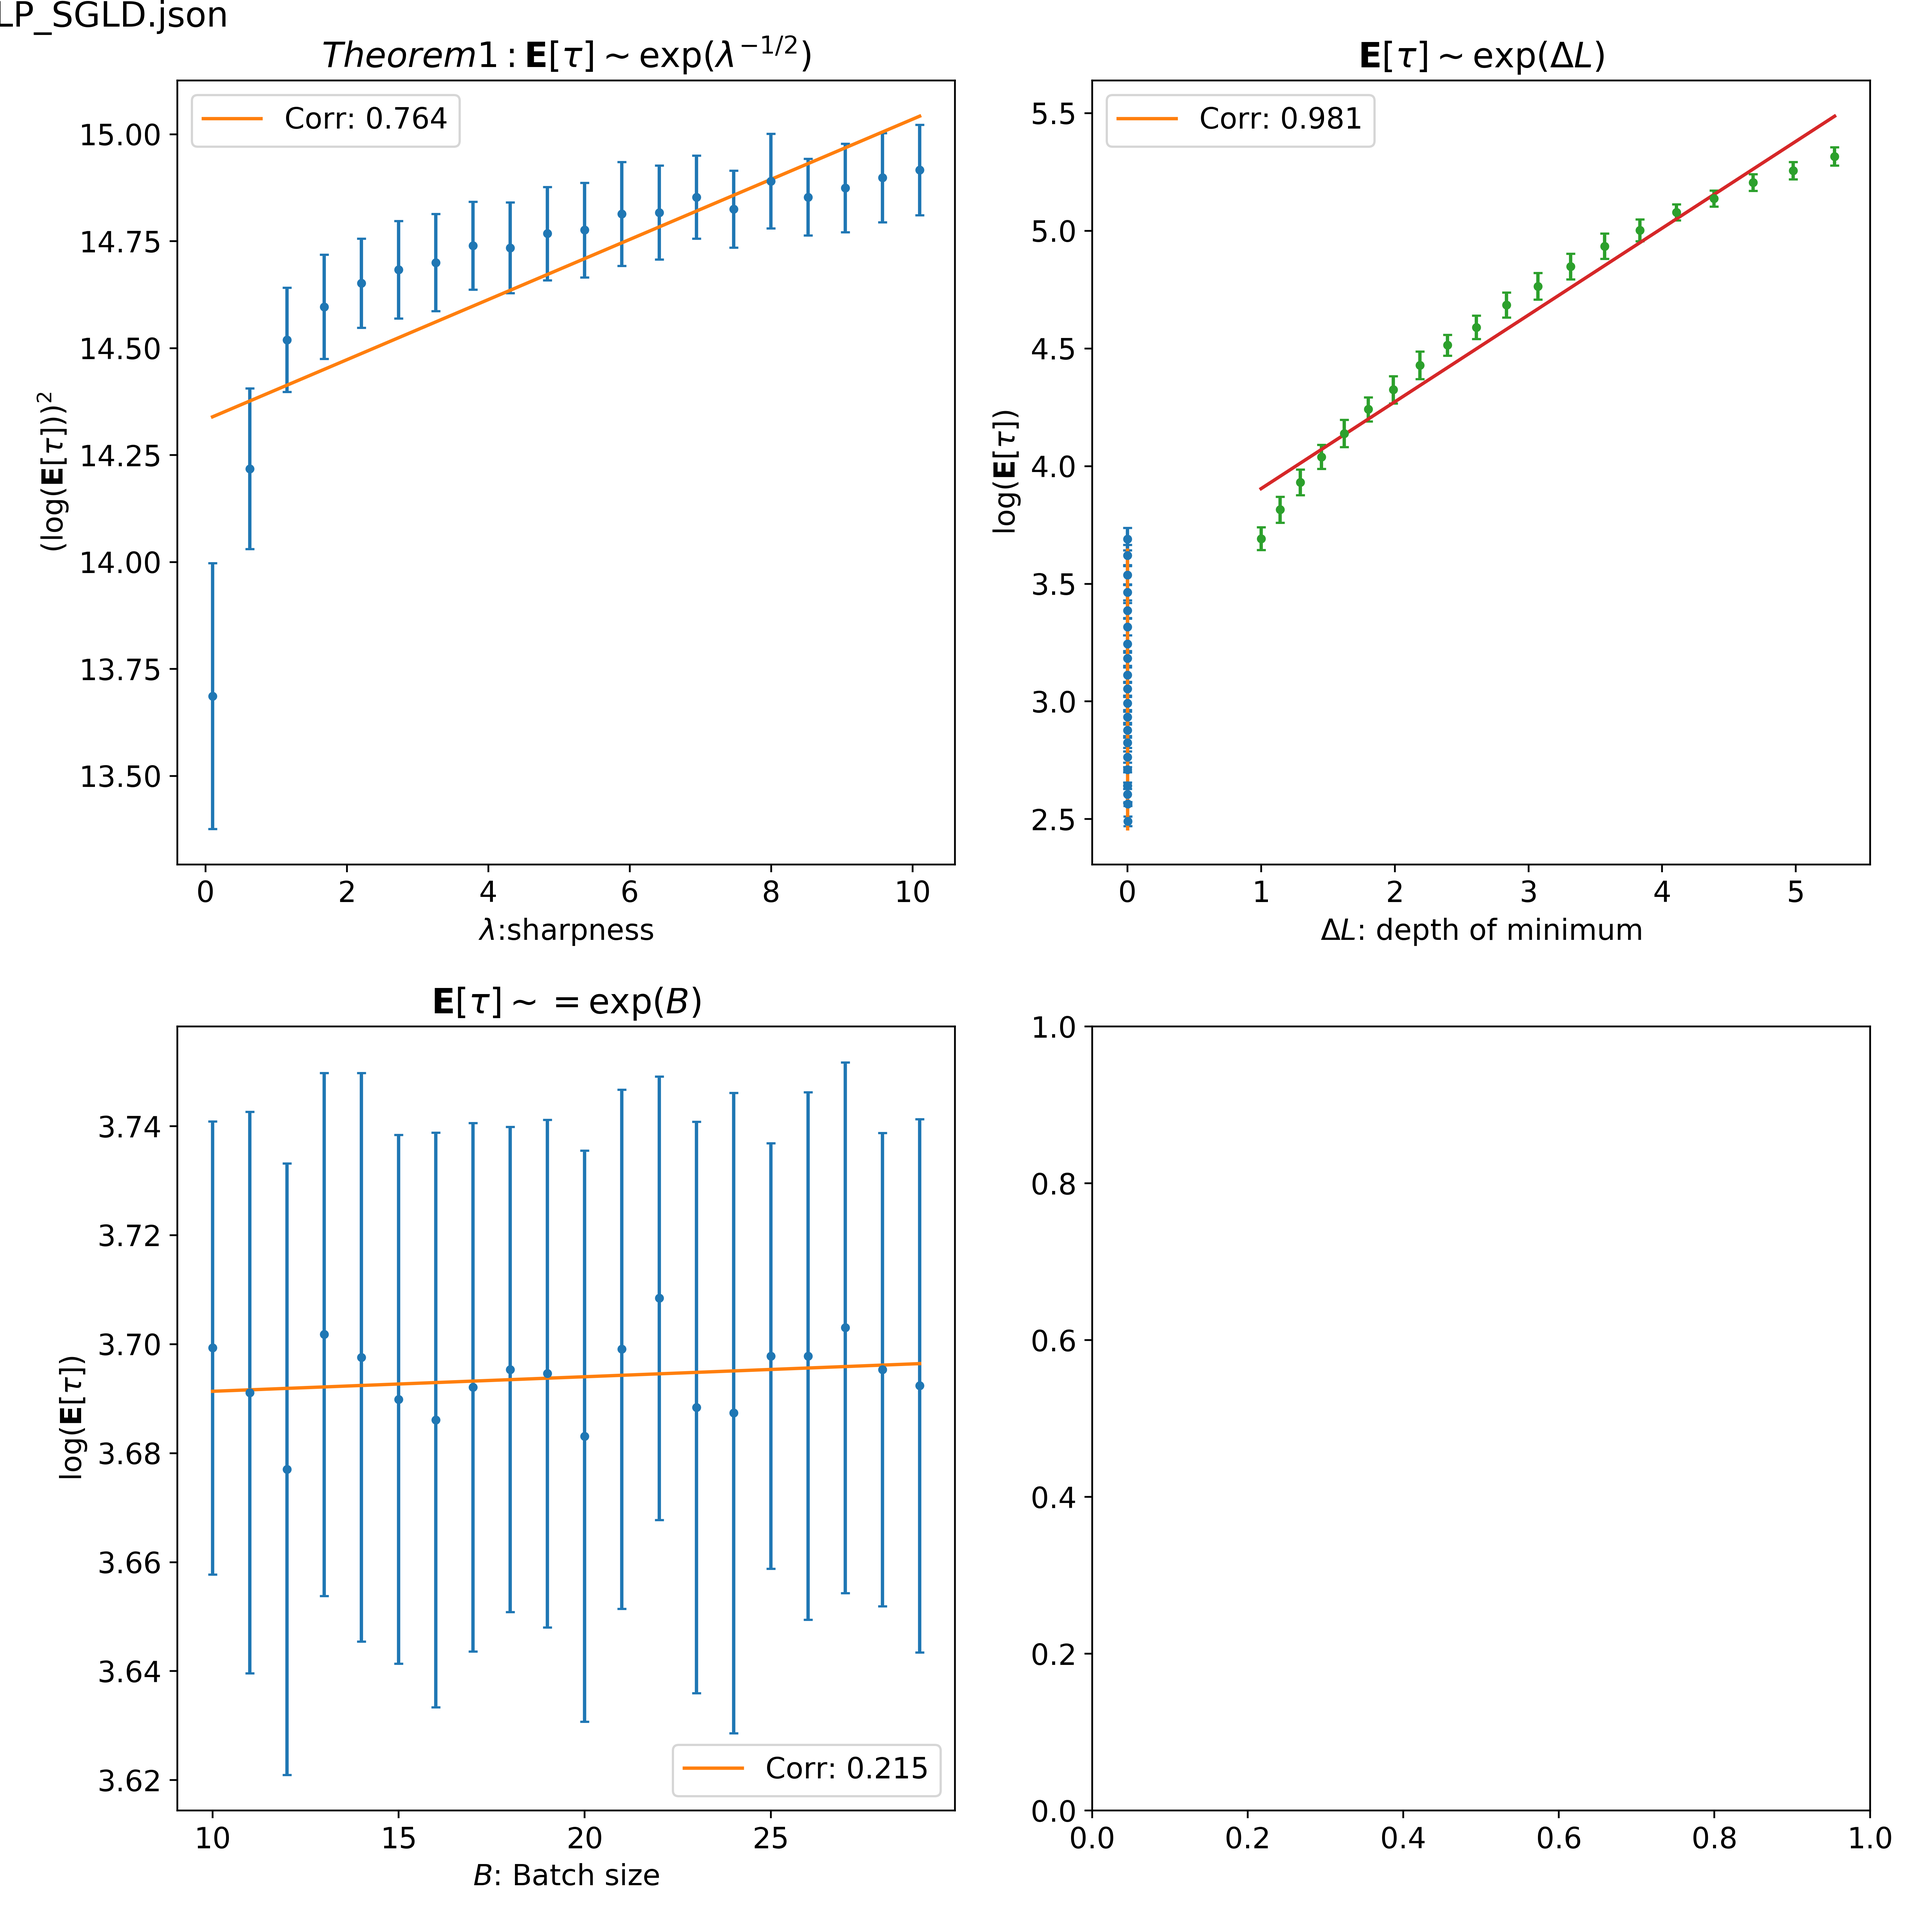
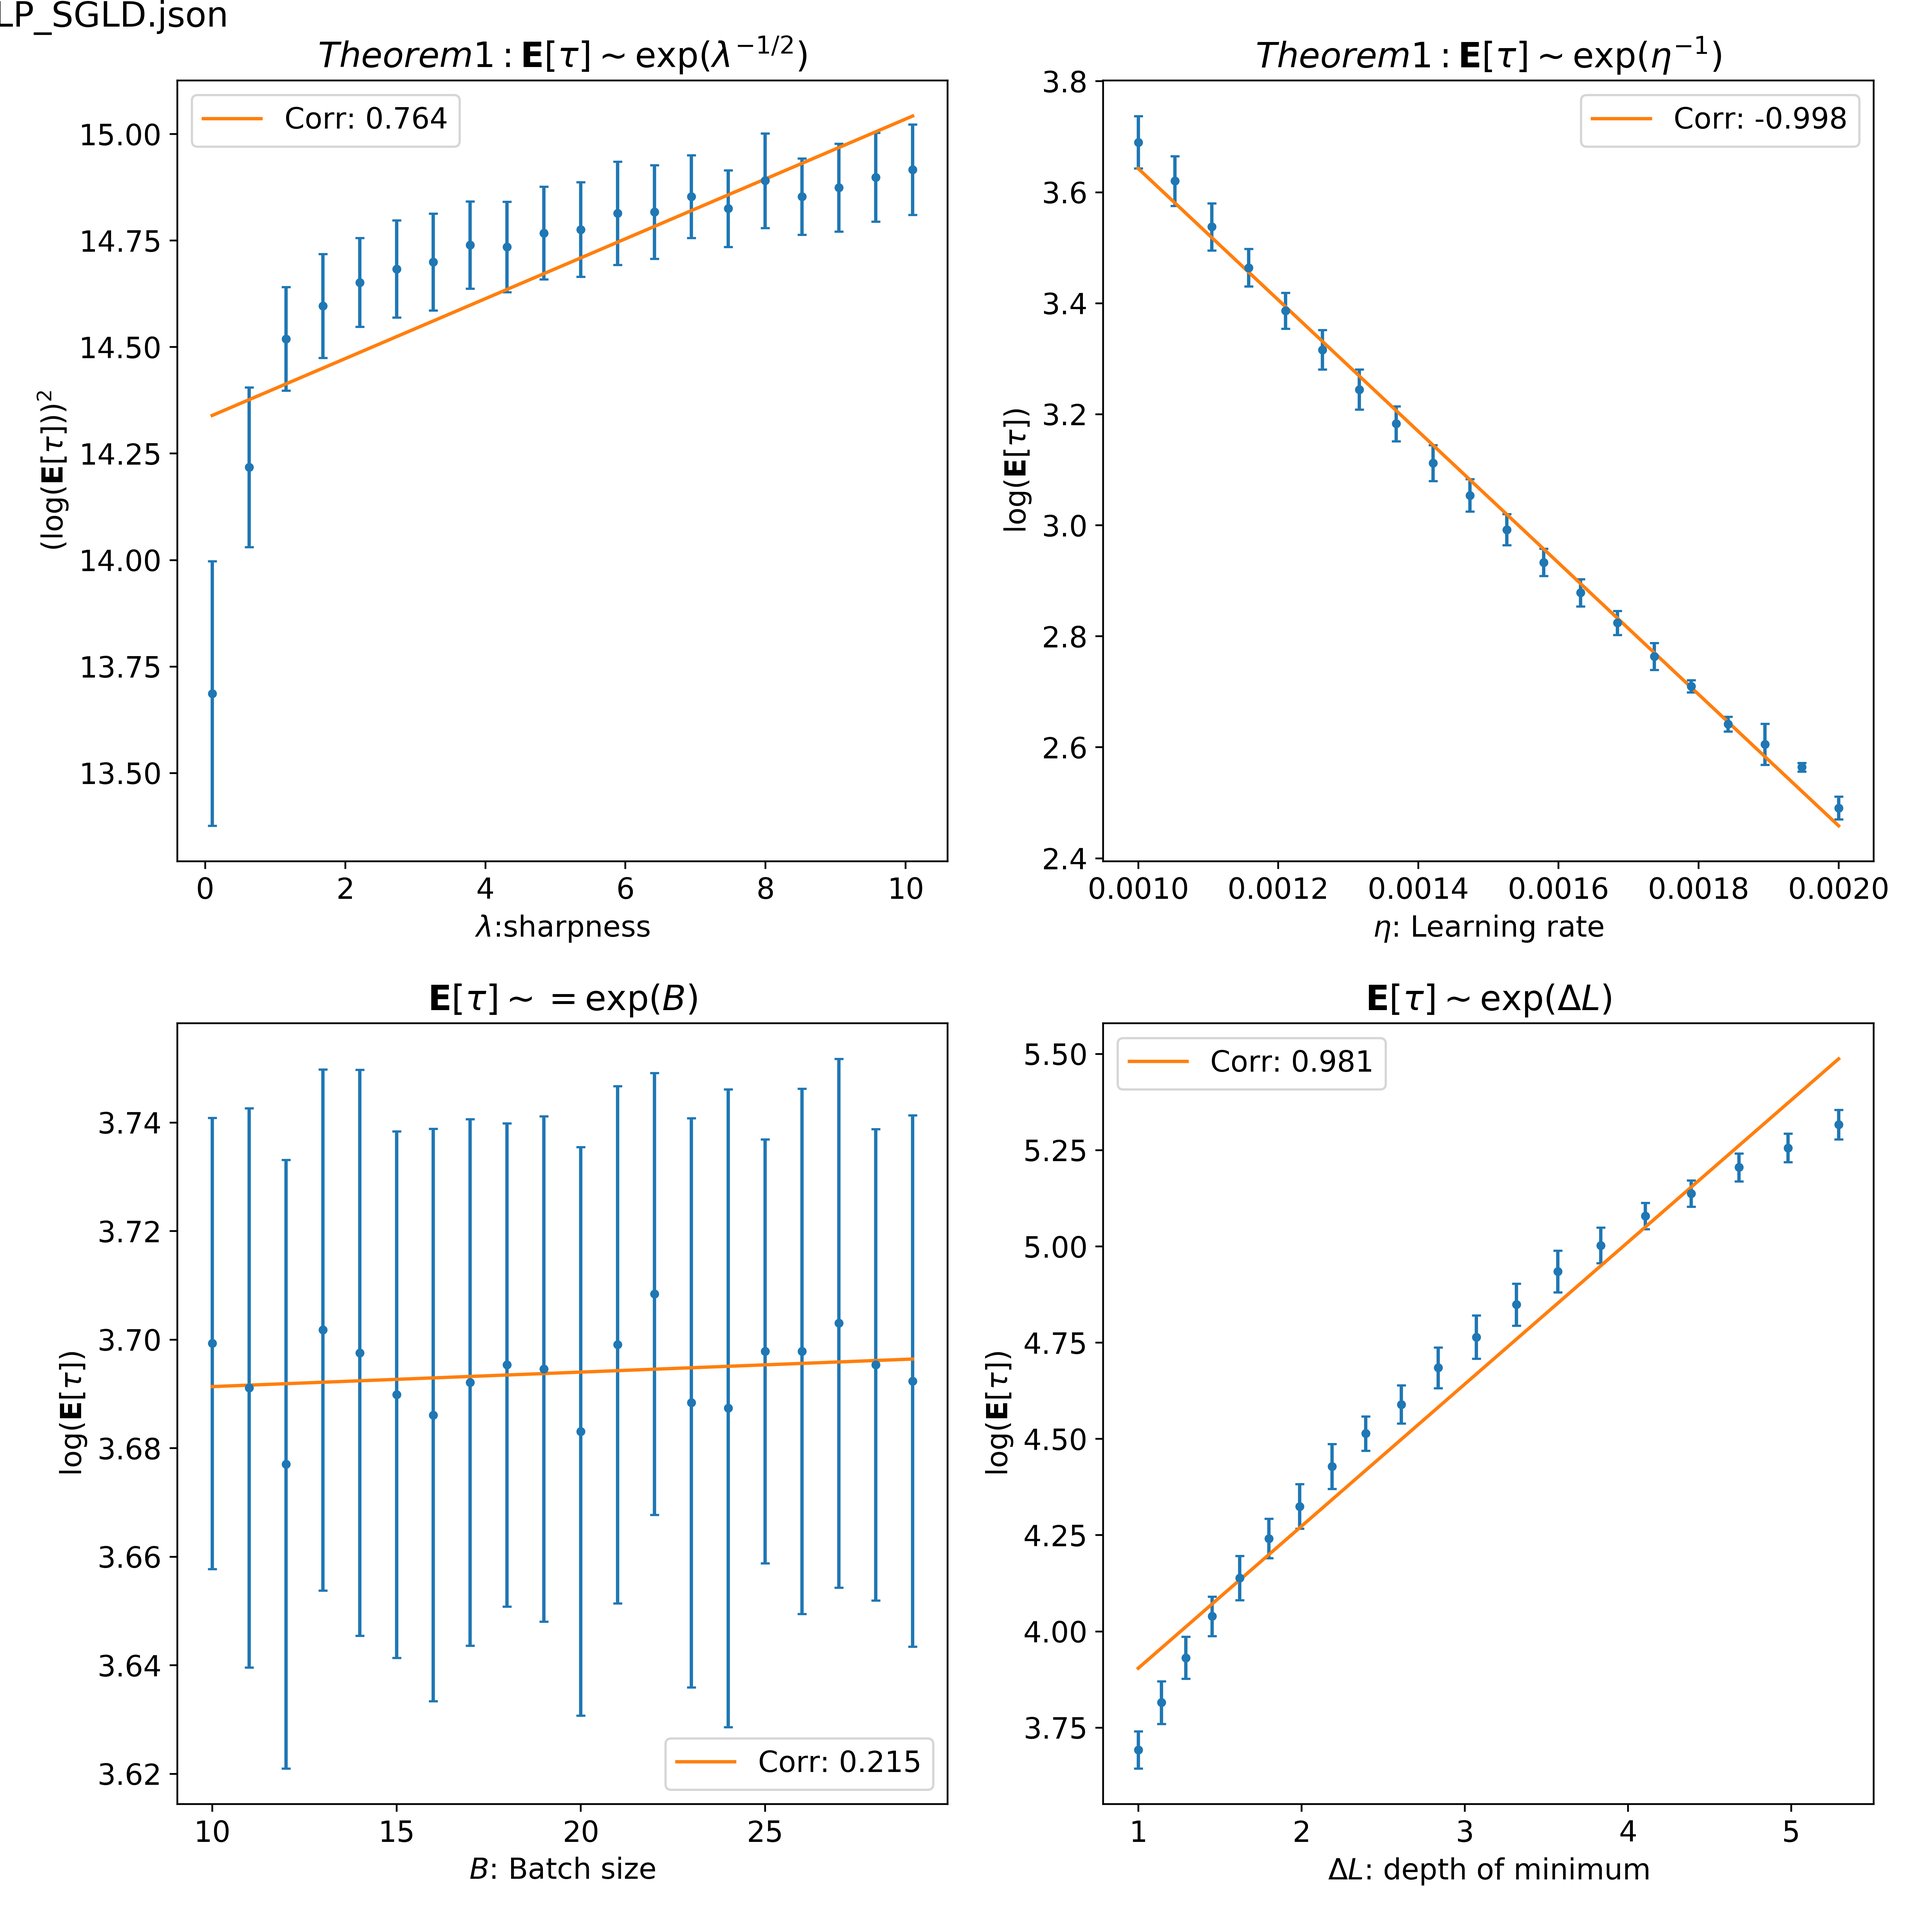
update

diff --git a/draw.py b/draw.py
@@ -59,12 +59,12 @@ def draw(config_fn, sharpness_results, lr_results, batch_size_results, r_results
     coeff_1, _ = stats.pearsonr(x_1, y_1)
     A = np.vstack([x_1, np.ones(len(x))]).T
     m_1, c_1 = np.linalg.lstsq(A, y_1, rcond=None)[0]
-    ax1[1].set_xlabel("$\Delta L$: depth of minimum")
-    ax1[1].set_ylabel("$\log(\mathbf{E}[\\tau])$")
-    ax1[1].errorbar(x_1, y_1, yerr=log_std, fmt='.', capsize=2) 
-    ax1[1].plot(x_1, m_1*x_1 + c_1)
-    ax1[1].legend([f'Corr: {coeff_1:.3g}'])
-    ax1[1].set_title('$\mathbf{E}[\\tau] \sim \exp(\Delta L)$')
+    ax2[1].set_xlabel("$\Delta L$: depth of minimum")
+    ax2[1].set_ylabel("$\log(\mathbf{E}[\\tau])$")
+    ax2[1].errorbar(x_1, y_1, yerr=log_std, fmt='.', capsize=2) 
+    ax2[1].plot(x_1, m_1*x_1 + c_1)
+    ax2[1].legend([f'Corr: {coeff_1:.3g}'])
+    ax2[1].set_title('$\mathbf{E}[\\tau] \sim \exp(\Delta L)$')
 
     plt.tight_layout()
     plt.show()
